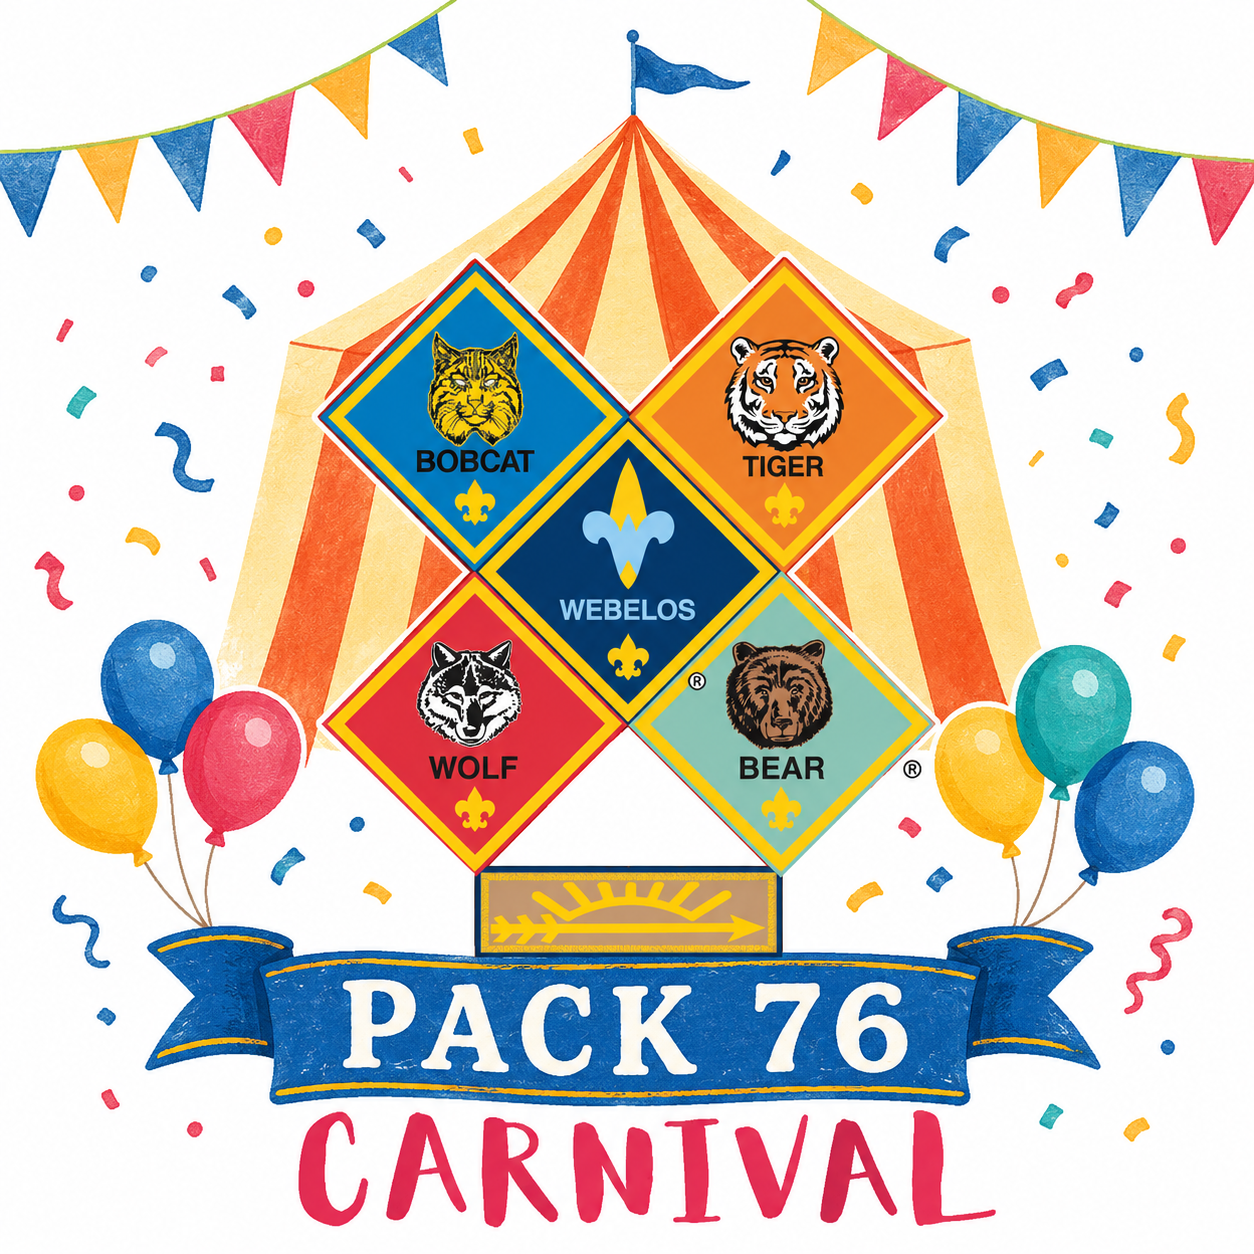
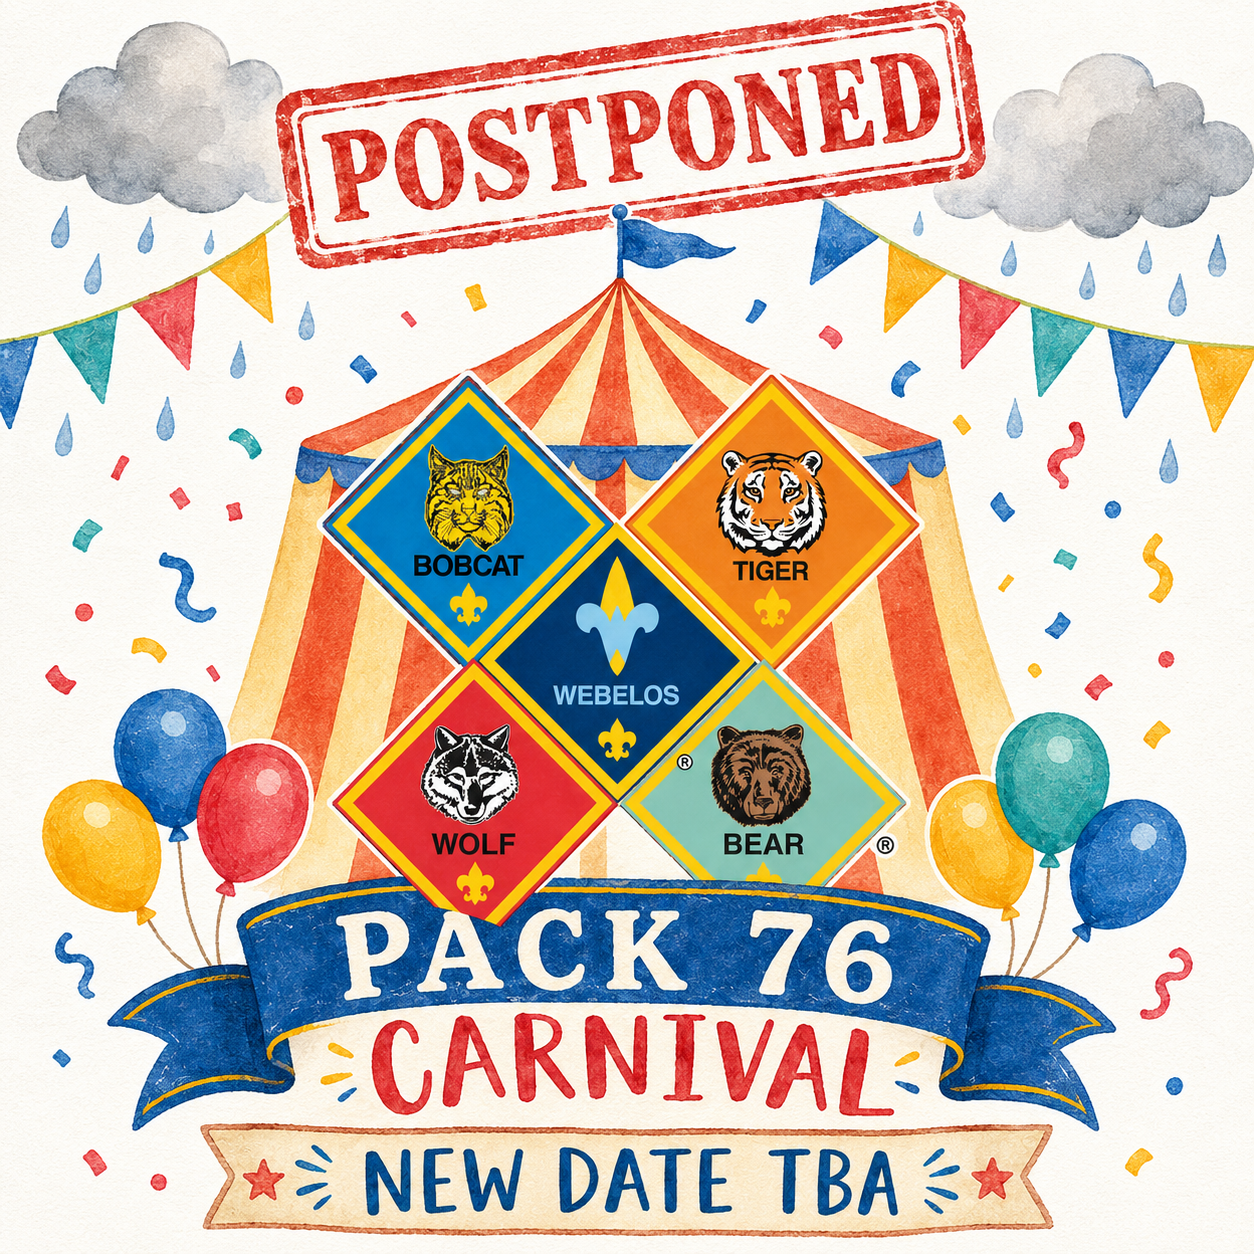
Synchronized build

diff --git a/events/community/carnival-2026/index.html b/events/community/carnival-2026/index.html
@@ -164,16 +164,20 @@
 				</header>
 				<!--iframe style="width:100%;height:800px;" src="https://www.google.com/calendar/embed?src=usa__en@holiday.calendar.google.com">
 				</iframe-->
-                <center><img class="img-responsive" src="./carnival.png"/></center><h2><em>Want a printable flyer? <a href="Pack76Carnival2026.pdf">Download it here.</a></em></h2>
-<p><strong>Join Pack 76 for a fun-filled evening of games, food, and prizes while you get to meet our cubs and leaders!</strong></p>
+                <div style="border: 3px solid #c00; background: #fff5f5; padding: 1em 1.5em; margin: 1em 0; border-radius: 6px;">
+<h2>Postponed — Severe Weather</h2>
+<p>Due to expected severe thunderstorms on <strong>Tuesday, June 23, 2026</strong>, the Carnival has been <strong>postponed</strong>.  We are still meeting at our regular time — <strong>6:30 to 7:30 PM</strong> — for an <strong>indoor meeting with fun games</strong>, and we'll discuss a make-up date together.</p>
+<p><strong>If you already pre-purchased food:</strong> your purchase carries over as credit for the make-up date.  No action needed.</p>
+</div><center><img class="img-responsive" src="./carnival.png"/></center><p><strong>Join Pack 76 for a fun-filled evening of games, food, and prizes while you get to meet our cubs and leaders!</strong></p>
 <ul>
-<li><strong>When:</strong> Tuesday, June 23, 2026 — 6:00 PM to 8:00 PM</li>
+<li><strong>When:</strong> <del>Tuesday, June 23, 2026 — 6:00 PM to 8:00 PM</del> <strong>Postponed — make-up date to be announced.</strong></li>
 <li><strong>Where:</strong> Germania Fire House, 312 S Cologne Ave, Cologne, NJ 08213</li>
 <li><strong>Entry:</strong> Free.  Hot dogs, hamburgers, and snacks available for purchase.</li>
 </ul>
 <center>
 <iframe src="https://www.google.com/maps/embed?pb=!1m18!1m12!1m3!1d3078.171095106313!2d-74.60302292257316!3d39.510627971599604!2m3!1f0!2f0!3f0!3m2!1i1024!2i768!4f13.1!3m3!1m2!1s0x89c0ddf095283983%3A0x883b80efe433c9dd!2sGermania%20Volunteer%20Fire%20Co!5e0!3m2!1sen!2sus!4v1717707831355!5m2!1sen!2sus" width="600" height="480" style="border:0;" allowfullscreen="" loading="lazy" referrerpolicy="no-referrer-when-downgrade"></iframe>
 </center><p><strong>Food can be pre-purchased below.</strong></p>
+<p><em>Make-up date TBD — any existing orders are honored for the new date, and new orders placed now will also carry over.</em></p>
 <p><em>A note about Zeffy:</em> Zeffy lets nonprofits like Pack 76 collect payments <strong>fee-free</strong> by suggesting an optional contribution to Zeffy at checkout.  That contribution is <strong>entirely up to you</strong> — you can choose any amount, including <strong>$0</strong>, by selecting "Other" and entering 0.  100% of what you pay for food goes to the Pack either way.</p>
 <h3>If the form does not appear below (some have reported an error occassionally), you can go to <a href="https://www.zeffy.com/en-US/ticketing/carnival-food-sales">the form directly at this link</a>.</h3>
 <div style="position:relative;overflow:hidden;height:600px;width:100%;padding-top:600px;"><iframe title='Donation form powered by Zeffy' style='position: absolute; border: 0; top:0;left:0;bottom:0;right:0;width:100%;height:100%' src='https://www.zeffy.com/embed/ticketing/carnival-food-sales' allowpaymentrequest allowTransparency="true"></iframe></div>

diff --git a/index.html b/index.html
@@ -118,8 +118,9 @@
 				</header>
 				<!--iframe style="width:100%;height:800px;" src="https://www.google.com/calendar/embed?src=usa__en@holiday.calendar.google.com">
 				</iframe-->
-                <div class="aligncenter"><a href="./events/community/carnival-2026/"><img src="events/community/carnival-2026/carnival.png" class="img-responsive"/></a></div><ul>
-<li><a href="events/community/carnival-2026/"><strong>Pack 76 Carnival — Tuesday, June 23, 2026, 6–8 PM at the Germania Fire House.  Click the image above for details and to pre-order food!</strong></a></li>
+                <div class="aligncenter"><a href="./events/community/carnival-2026/"><img src="events/community/carnival-2026/carnival.png" class="img-responsive"/></a></div><div style="border: 3px solid #c00; background: #fff5f5; padding: 1em 1.5em; margin: 1em 0; border-radius: 6px;">
+<p><strong>Carnival postponed due to severe thunderstorms.</strong>  We are still meeting <strong>Tuesday, June 23, 2026 from 6:30 to 7:30 PM</strong> at the Germania Fire House for an <strong>indoor meeting with fun games</strong> — we'll discuss a make-up date together.  Existing food pre-orders will carry over to the new TBD date.  <a href="./events/community/carnival-2026/"><strong>Details here.</strong></a></p>
+</div><ul>
 <li><a href="new-parents/scoutbook">Information on Scoutbook!</a></li>
 <li>If you are a new parent to our pack, or considering packs, please <a href="new-parents/"><strong>see our page for new parents.  :)</strong></a>.</li>
 <li><a href="announcements"><strong>Announcements are a great place to check new information.</strong></a></li>

diff --git a/announcements/index.html b/announcements/index.html
@@ -125,7 +125,11 @@
 				</header>
 				<!--iframe style="width:100%;height:800px;" src="https://www.google.com/calendar/embed?src=usa__en@holiday.calendar.google.com">
 				</iframe-->
-                <h3>May 20, 2026</h3>
+                <h3>June 22, 2026</h3>
+<ul>
+<li><strong>Carnival postponed — indoor meeting instead.</strong>  Due to expected severe thunderstorms tomorrow, the Carnival has been postponed.  We will still meet <strong>Tuesday, June 23, 2026 from 6:30 to 7:30 PM</strong> at the Germania Fire House for an <strong>indoor meeting with fun games</strong>, and we'll discuss a make-up date together.  If you already pre-purchased food, your purchase carries over as credit for the make-up date — no action needed.  <a href="../events/community/carnival-2026/"><strong>See the event page</strong></a> for details.</li>
+</ul>
+<h3>May 20, 2026</h3>
 <ul>
 <li><strong>Pack 76 Carnival is coming!</strong>  Join us <strong>Tuesday, June 23, 2026 from 6:00 to 8:00 PM</strong> at the <strong>Germania Fire House</strong> (312 S Cologne Ave, Cologne, NJ) for a fun-filled evening of games, food, and prizes.  Entry is free; hot dogs, hamburgers, and snacks will be available for purchase.  <a href="../events/community/carnival-2026/"><strong>See the event page</strong></a> for details and to <a href="https://www.zeffy.com/en-US/ticketing/carnival-food-sales"><strong>pre-order food</strong></a>.</li>
 </ul>

diff --git a/events/community/index.html b/events/community/index.html
@@ -162,8 +162,8 @@
 				</header>
 				<!--iframe style="width:100%;height:800px;" src="https://www.google.com/calendar/embed?src=usa__en@holiday.calendar.google.com">
 				</iframe-->
-                <h2>Pack 76 Carnival 2026</h2>
-<p><strong>Tuesday, June 23, 2026 — 6:00 to 8:00 PM at the Germania Fire House, 312 S Cologne Ave, Cologne, NJ.</strong>  Free entry; hot dogs, hamburgers, and snacks available for purchase.  Check out <a href="carnival-2026/">the event page</a> for the printable flyer, location map, and food pre-order form.</p>
+                <h2>Pack 76 Carnival 2026 — Postponed</h2>
+<p><strong>The June 23, 2026 Carnival has been postponed due to expected severe thunderstorms.</strong>  We are still meeting at our regular time — <strong>6:30 to 7:30 PM</strong> — at the Germania Fire House for an indoor meeting with fun games, and we'll discuss a make-up date together.  Existing food pre-orders carry over to the new date.  See <a href="carnival-2026/">the event page</a> for the full notice.</p>
 <h2>Field Day 2024</h2>
 <p>Check out <a href="field-day-2024/">here for more information!</a></p>
 <h2>Wreaths Across America December 16, 2023</h2>
